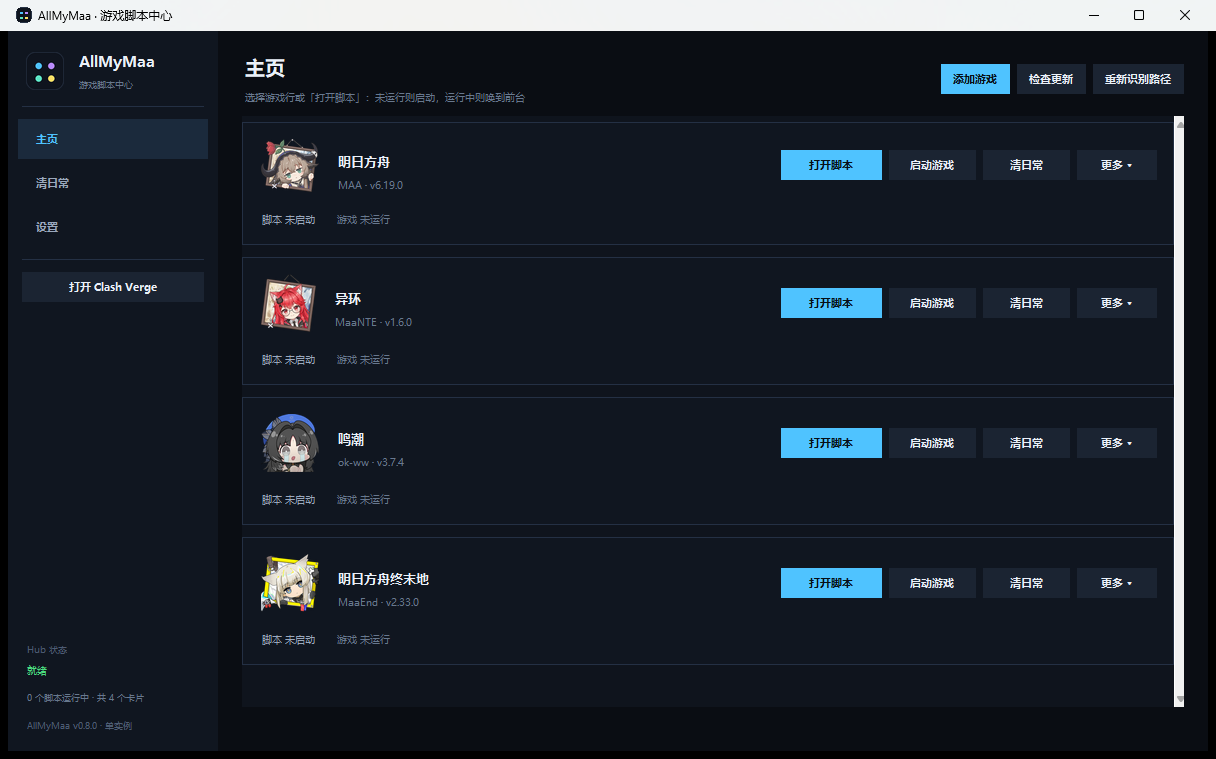
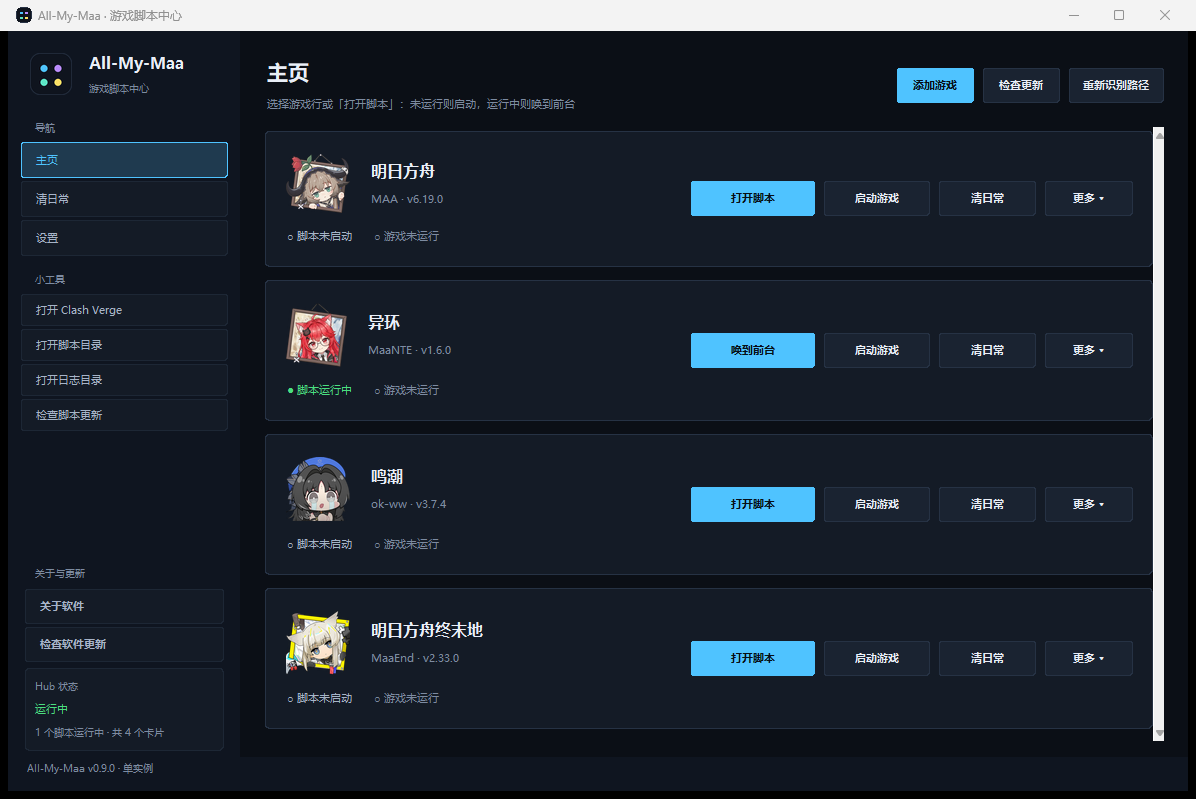
docs: refresh All-My-Maa v0.9.0 screenshots

diff --git a/docs/index.html b/docs/index.html
@@ -85,7 +85,7 @@
       </div>
       <figure class="hero-shot">
         <div class="shot-frame">
-          <img src="assets/screenshot.png" width="1216" height="759" alt="All-My-Maa 主界面：左侧导航（导航 / 小工具 / 关于与更新）与主页游戏行，展示脚本 / 游戏运行状态、打开脚本 / 启动游戏 / 清日常 / 更多按钮">
+          <img src="assets/screenshot.png" width="1196" height="799" alt="All-My-Maa 主界面：左侧导航（导航 / 小工具 / 关于与更新）与主页游戏行，展示脚本 / 游戏运行状态、打开脚本 / 启动游戏 / 清日常 / 更多按钮">
         </div>
         <div class="shot-badge shot-badge-a" aria-hidden="true">4 个内置脚本</div>
         <div class="shot-badge shot-badge-b" aria-hidden="true">状态刷新间隔可调</div>
